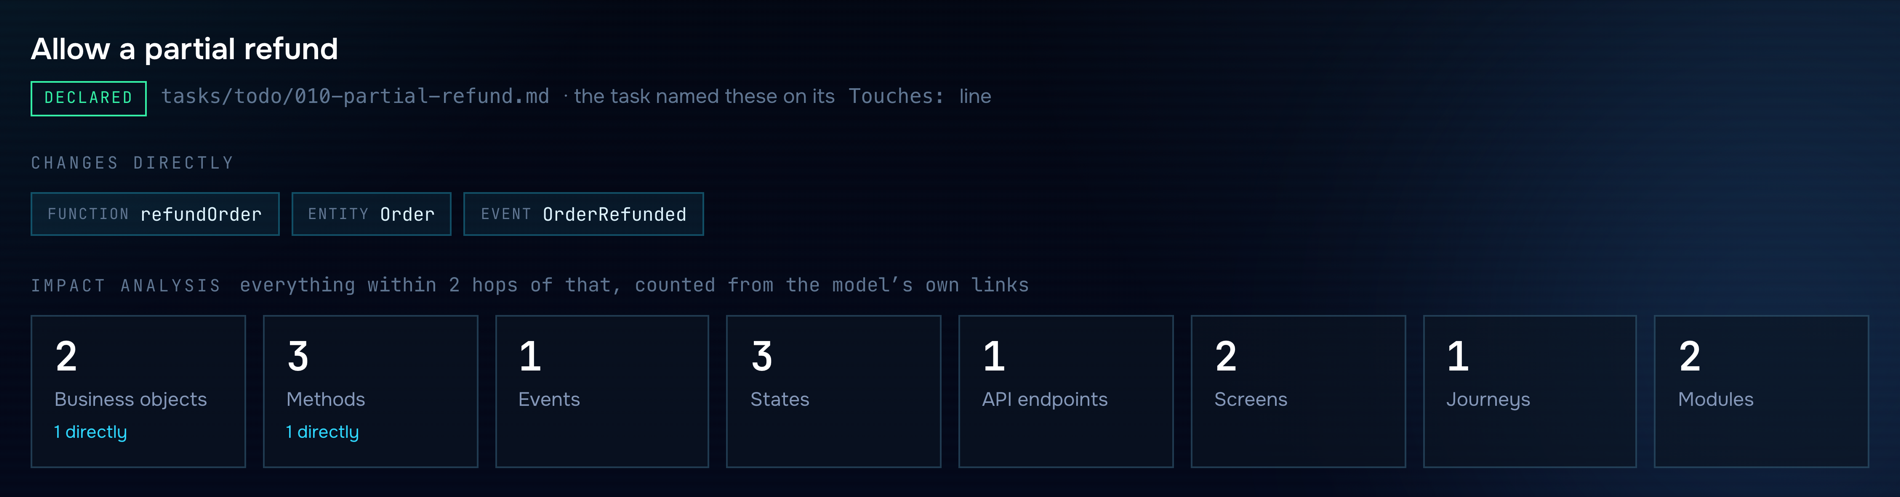
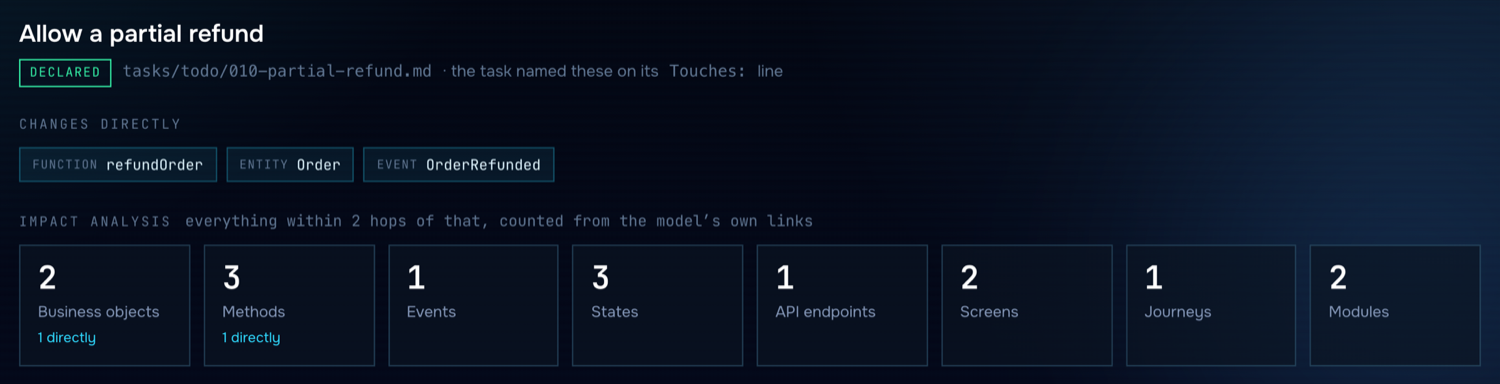
feat(model): a lifecycle transition holds what it fires, and every node opens
On a lifecycle the effects of a transition were peers of the states — three
nodes to say one thing, and the question the diagram exists to answer, which
state follows which, was buried under them. An effect hangs off exactly one
transition and leads nowhere else, so a builder can now mark it as owned and
the renderer folds it inside. The picture reads as the chain it is, and the
transition carries EFFECTS 2 until you open it.

Clicking a node used to only select it unless it was a container, which made
half the diagrams look broken: the hint says a click opens a node, and for most
nodes nothing happened. Any node with something to say now opens into its card.

README: the diagram screenshots were of the SVG renderer that no longer exists,
and the text described pictures that hold still. Re-taken against the current
build, with the Orders area open and a lifecycle with its effects folded in.
Canvas glow does not fit in a PNG worth downloading, so those three are JPEG:
the image set drops from 6.3 MB to 1.8 MB.

diff --git a/public/hud-scenes.js b/public/hud-scenes.js
@@ -15,7 +15,10 @@
 const HUD_STATIC = {
   groupRows: () => [],
   leaf: {
-    init: () => null,
+    // A node with something to say opens into a card. Returning null here — as
+    // this did at first — leaves a leaf selectable but not openable, so only
+    // containers responded to a click and the rest looked broken.
+    init: (src) => ((src && (src.detailText || src.modelId)) ? { src } : null),
     rows: () => [],
     step: () => {},
     stats: () => ({}),
@@ -287,7 +290,20 @@ const HUD_SPEC_KIND = {
 
 function hudSceneFromSpec(spec, m, hooks, head) {
   if (!spec || !spec.nodes || !spec.nodes.length) return null;
-  const nodes = spec.nodes.map((n) => {
+  // A builder can mark a node as belonging to another one. On a lifecycle the
+  // effects of a transition are exactly that: they hang off one transition and
+  // lead nowhere, so as peers they tripled the node count and buried the thing
+  // the diagram is actually about — which state follows which.
+  const owned = new Map();
+  for (const n of spec.nodes) {
+    const by = n.meta && n.meta.ownedBy;
+    if (!by) continue;
+    if (!owned.has(by)) owned.set(by, []);
+    owned.get(by).push(n.id);
+  }
+  const isOwned = new Set([].concat(...owned.values()));
+  const specById = new Map(spec.nodes.map((n) => [n.id, n]));
+  const nodes = spec.nodes.filter((n) => !isOwned.has(n.id)).map((n) => {
     const md = n.meta || {};
     const rows = [];
     // `sub` is prose about the node; `fields` are the lines the builder chose to
@@ -299,14 +315,27 @@ function hudSceneFromSpec(spec, m, hooks, head) {
       const cut = s.lastIndexOf('  ');
       rows.push(cut > 0 ? [s.slice(0, cut).trim(), s.slice(cut).trim()] : [s, '']);
     }
+    const kids = (owned.get(n.id) || []).map((cid) => {
+      const c = specById.get(cid), cm = (c && c.meta) || {};
+      return {
+        id: cid, modelId: (cm.ref && cm.ref.id) || null,
+        kind: HUD_SPEC_KIND[cm.kind] || 'sub',
+        title: hudTitle(cm.label || cid),
+        tag: String(cm.kind || '').slice(0, 14),
+        rows: (cm.subLines || []).slice(0, 4).map((l) => [String(l), '']),
+        detailText: cm.sub || '',
+      };
+    });
     return {
       id: n.id,
       modelId: (md.ref && md.ref.id) || null,
       kind: HUD_SPEC_KIND[md.kind] || 'sub',
       title: hudTitle(md.label || n.id),
       tag: String((md.ref && md.ref.id) || md.kind || '').slice(0, 14),
-      rows: rows.slice(0, 5),
+      rows: kids.length ? [[kids.length === 1 ? 'EFFECT' : 'EFFECTS', String(kids.length)]].concat(rows.slice(0, 4))
+                        : rows.slice(0, 5),
       detailText: md.sub || '',
+      children: kids.length ? { nodes: kids, edges: [] } : null,
     };
   });
   const have = new Set(nodes.map((n) => n.id));

diff --git a/public/app.js b/public/app.js
@@ -628,6 +628,7 @@ function renderHud(container, scene, seq){
   catch(e){ container.innerHTML='<div class="model-empty">Renderer failed: '+esc(e.message||e)+'</div>'; return; }
   hudLive.push(h);
   window.__HUD_API__=h;                 // the most recent one, for probing
+  window.__HUD_ALL__=hudLive;           // all of them: a view may hold several
   container.querySelector('.dgm-bar').addEventListener('click',(ev)=>{
     const b=ev.target.closest('.dgm-b'); if(!b||!h) return;
     const a=b.dataset.a;
@@ -1606,7 +1607,10 @@ function graphLifecycle(fl, m){
       const en='ef'+i+'_'+j, head=effHead(ef,m), desc=ef.description?String(ef.description):'';
       const W=Math.max(160,Math.min(272, Math.max(head.length*7+40, desc.length*6.6/2+40)));
       const L = desc ? wrapPx(desc, W-15-11, CW_MONO) : [];
-      nodes.push({id:en, w:Math.round(W), h: L.length?subH(L.length):40, meta:{kind:'effect', label:head, sub:desc, subLines:L, ref: ef.entityId?{k:'entity',id:ef.entityId}:{k:'entity',id:fl.entityId}}});
+      // An effect belongs to its transition and leads nowhere else, so the canvas
+      // renderer folds it inside — the picture stays "state → transition → state"
+      // and what fires is one click in.
+      nodes.push({id:en, w:Math.round(W), h: L.length?subH(L.length):40, meta:{kind:'effect', ownedBy:tn, label:head, sub:desc, subLines:L, ref: ef.entityId?{k:'entity',id:ef.entityId}:{k:'entity',id:fl.entityId}}});
       edges.push({from:tn, to:en, kind:'effect'});
     });
   });

diff --git a/README.md b/README.md
@@ -58,14 +58,14 @@ breaking one is visible to them).
 
 ### 3. Where does it land?
 
-<img src="docs/img/impact-graph.png" alt="Changes, the areas they reach, and the user journeys running through those areas" width="900">
+<img src="docs/img/impact-graph.jpg" alt="Changes, the areas they reach, and the user journeys running through those areas" width="900">
 
 Left to right: **what the task changes** → **the areas that reaches**, each stating how
-much of it is in reach → **the journeys that run through those areas**. Click any node for
-its own context.
+much of it is in reach → **the journeys that run through those areas**.
 
-Grouped on purpose: on a real task, one hop out reaches over a hundred objects, and a node
-per object is a picture nobody reads.
+On a real task, one hop out reaches over a hundred objects, so an area is a container
+rather than a claim: **click it and it opens in place**, showing exactly which of its
+objects are in reach. Esc goes back.
 
 **Approve this change** writes an `Approved:` line into the task file. It travels with the
 task, and whoever runs it sees it — including Claude, which is told never to edit that line
@@ -160,7 +160,20 @@ node mcp-check.ts examples/refund-shop impact 010-partial-refund.md
 | **Timeline** | the product changing, in the order it changed |
 | **Preview** | open any URL, click an element, get a prompt naming it and the files it probably lives in |
 
-<img src="docs/img/map.png" alt="Product map with layer switcher" width="920">
+Every diagram opens. An area holds its objects, a transition holds what it fires — so the
+top level stays a size you can take in, and the detail is one click inside it rather than a
+wall of nodes you have to read past.
+
+<img src="docs/img/map-open.jpg" alt="The Orders area opened in place, showing the objects, screens and endpoints inside it" width="920">
+
+A lifecycle reads as the chain it is — `created → paid → delivered → refunded` — with each
+transition carrying the effects that fire on it, folded inside until you ask:
+
+<img src="docs/img/lifecycle.jpg" alt="An order lifecycle: states, the transitions between them, and a transition holding two effects" width="920">
+
+They are drawn on a canvas by a renderer written for this. That is why there is no layout
+library in `vendor/` any more, and why a map exported to a single file is 714 KB rather
+than 2.3 MB.
 
 ---
 
